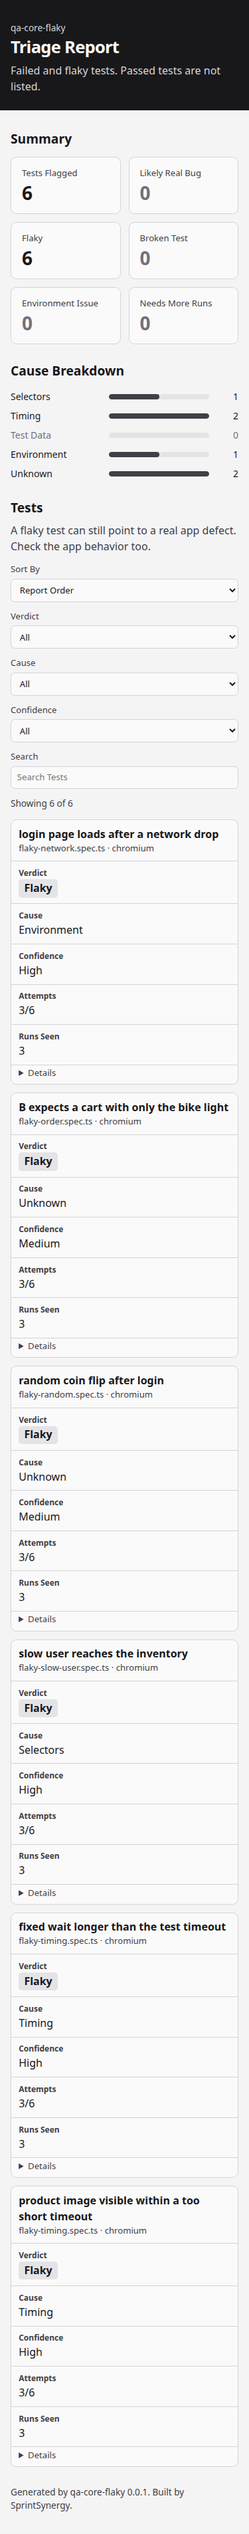
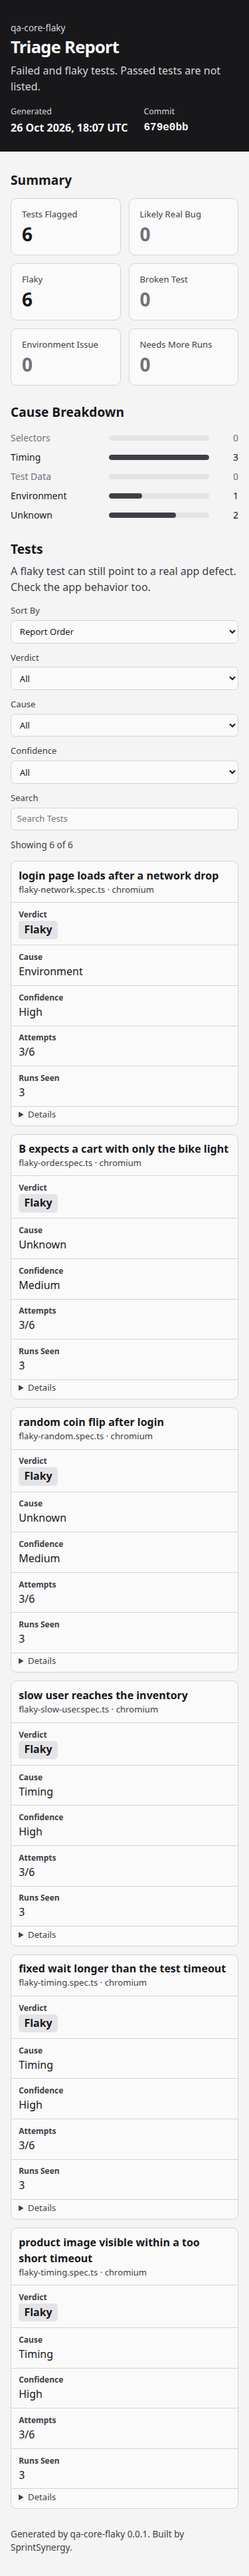
Regenerate the SauceDemo example from the kit reports.
The next step commands use the report and config paths printed from inside the kit, and the header uses a real short commit with a fixed time. A test rejects machine paths in the committed example.

diff --git a/examples/triage.html b/examples/triage.html
@@ -11,10 +11,11 @@
 <style>:root{color-scheme:light;--bg:#f4f4f5;--bg-elevated:#fafafa;--ink:#18181b;--muted:#3f3f46;--line:#d4d4d8;--band:#18181b;--band-ink:#fafafa;--band-muted:#d4d4d8;--bar:#3f3f46;--bar-track:#e4e4e7;--zero:#71717a}@media (prefers-color-scheme:dark){:root{color-scheme:dark;--bg:#09090b;--bg-elevated:#18181b;--ink:#fafafa;--muted:#d4d4d8;--line:#3f3f46;--band:#27272a;--band-ink:#fafafa;--band-muted:#d4d4d8;--bar:#d4d4d8;--bar-track:#27272a;--zero:#a1a1aa}}*{box-sizing:border-box}[hidden]{display:none !important}html,body{margin:0;padding:0}body{background:var(--bg);color:var(--ink);font-family:ui-sans-serif,system-ui,"Segoe UI",Helvetica,Arial,sans-serif;font-size:16px;line-height:1.5}:focus-visible{outline:2px solid var(--ink);outline-offset:2px}.skip{position:absolute;left:0.75rem;top:-3rem;z-index:3;background:var(--bg-elevated);color:var(--ink);padding:0.4rem 0.7rem;border-radius:0.35rem}.skip:focus{top:0.75rem}.top{background:var(--band);color:var(--band-ink)}.top-inner,main,.footer{max-width:72rem;margin:0 auto;padding-left:1.25rem;padding-right:1.25rem}.top-inner{padding-top:2rem;padding-bottom:1.5rem}.mark{margin:0;color:var(--band-muted);font-size:0.85rem}h1{margin:0.2rem 0 0;font-size:2rem;font-weight:650;letter-spacing:-0.03em;line-height:1.15}.lede{margin:0.55rem 0 0;max-width:40rem;color:var(--band-muted)}.meta{display:flex;flex-wrap:wrap;gap:0.75rem 1.5rem;margin:1.1rem 0 0}.meta div{margin:0}.meta dt{margin:0;font-size:0.78rem;color:var(--band-muted)}.meta dd{margin:0.1rem 0 0;font-weight:600;overflow-wrap:anywhere}.sha{font-family:ui-monospace,"SFMono-Regular",Consolas,monospace;font-weight:500}main{padding-top:0.25rem;padding-bottom:1rem}section{margin-top:1.6rem}h2{margin:0 0 0.75rem;font-size:1.2rem;font-weight:650}h3{margin:0.7rem 0 0.25rem;font-size:0.92rem;font-weight:650}.cards{display:grid;grid-template-columns:repeat(auto-fit,minmax(9.5rem,1fr));gap:0.75rem}.card,.table-wrap,.empty{background:var(--bg-elevated);border:1px solid var(--line);border-radius:0.55rem}.card{padding:0.85rem 1rem 0.95rem}.card-label{margin:0;color:var(--muted);font-size:0.82rem}.card-value{margin:0.3rem 0 0;font-size:1.75rem;font-weight:650;font-variant-numeric:tabular-nums;letter-spacing:-0.03em;line-height:1.1}.z,.z .card-value,.bars .z{color:var(--zero)}.bars{list-style:none;margin:0;padding:0;display:flex;flex-direction:column;gap:5px;max-width:36rem}.bars li{display:grid;grid-template-columns:8.5rem minmax(0,1fr) 2rem;align-items:center;column-gap:0.75rem;height:24px}.bl{font-size:0.875rem;line-height:1;white-space:nowrap}.bt{display:block;height:8px;background:var(--bar-track);border-radius:999px;overflow:hidden}.bb{display:block;height:8px;background:var(--bar);border-radius:999px}.bars .z .bb{background:transparent}.bc{font-size:0.875rem;font-variant-numeric:tabular-nums;text-align:right}.sr-only{position:absolute;width:1px;height:1px;padding:0;margin:-1px;overflow:hidden;clip:rect(0,0,0,0);white-space:nowrap;border:0}.toolbar{display:none;flex-wrap:wrap;gap:0.75rem;align-items:end;margin:0 0 0.85rem}.js .toolbar{display:flex}.toolbar .sort{display:none}.field{display:flex;flex-direction:column;gap:0.25rem;color:var(--muted);font-size:0.82rem}.toolbar select,.toolbar input[type="search"]{font:inherit;color:var(--ink);background:var(--bg-elevated);border:1px solid var(--line);border-radius:0.4rem;padding:0.4rem 0.55rem;min-width:11rem}.filter-status{margin:0;align-self:center;color:var(--muted);font-size:0.85rem}.note{margin:-0.35rem 0 0.85rem;color:var(--muted)}.table-wrap{overflow:auto;max-width:100%;width:100%}table{width:100%;border-collapse:collapse}caption{caption-side:bottom}th,td{text-align:left;vertical-align:top;padding:0.55rem 0.7rem;border-bottom:1px solid var(--line)}thead th{position:sticky;top:0;background:var(--bg-elevated);z-index:1}th button{font:inherit;font-weight:650;color:inherit;background:transparent;border:0;padding:0;cursor:pointer;text-align:left}th[aria-sort="ascending"] button::after,th[aria-sort="descending"] button::after{content:"";display:inline-block;margin-left:0.4rem;vertical-align:middle;border-left:4px solid transparent;border-right:4px solid transparent}th[aria-sort="ascending"] button::after{border-bottom:6px solid currentColor}th[aria-sort="descending"] button::after{border-top:6px solid currentColor}tbody th[scope="row"]{font-weight:400;overflow-wrap:anywhere}tbody th b{display:block;font-weight:600}tbody th small{display:block;color:var(--muted);font-size:0.82rem}td[data-label="Attempts"],td[data-label="Runs Seen"]{font-variant-numeric:tabular-nums;white-space:nowrap}.b1,.b2,.b3,.b4,.b5{display:inline-block;padding:0.12rem 0.45rem;border-radius:0.3rem;border:1px solid transparent;font-style:normal;font-weight:600;line-height:1.35;white-space:nowrap}.b1{background:#18181b;color:#fafafa}.b2{background:#3f3f46;color:#fafafa}.b3{background:#e4e4e7;color:#18181b}.b4{background:transparent;color:#18181b;border-color:#71717a}.b5{background:transparent;color:#52525b;border-style:dashed;border-color:#a1a1aa}@media (prefers-color-scheme:dark){.b1{background:#fafafa;color:#18181b}.b2{background:#d4d4d8;color:#18181b}.b3{background:#3f3f46;color:#fafafa}.b4{color:#fafafa;border-color:#71717a}.b5{color:#a1a1aa;border-color:#a1a1aa}}details{padding:0}summary{cursor:pointer;color:var(--muted);font-size:0.82rem;font-weight:500}tbody tr + tr td{padding-top:0.15rem;padding-bottom:0.4rem}p,li{overflow-wrap:anywhere}pre{margin:0;padding:0.7rem 0.8rem;white-space:pre-wrap;overflow-wrap:anywhere;background:var(--bg);border:1px solid var(--line);border-radius:0.4rem;font-family:ui-monospace,"SFMono-Regular",Consolas,monospace;font-size:0.88rem}code{font-family:ui-monospace,"SFMono-Regular",Consolas,monospace;font-size:0.88rem;overflow-wrap:anywhere}.copy{display:block;width:fit-content;margin:0.45rem 0 0}button{font:inherit;color:var(--ink);background:var(--bg-elevated);border:1px solid var(--line);border-radius:0.4rem;padding:0.3rem 0.6rem;cursor:pointer}.copy-buffer{position:fixed;left:-9999px;top:0;width:1px;height:1px;opacity:0}.empty{padding:1.1rem 1rem}.empty-title{margin:0;font-size:1.05rem;font-weight:650}.empty p{margin:0.4rem 0 0;color:var(--muted)}.footer{padding-bottom:2rem;color:var(--muted);font-size:0.85rem}.footer p{margin:0}.w0{width:0%}.w1{width:1%}.w2{width:2%}.w3{width:3%}.w4{width:4%}.w5{width:5%}.w6{width:6%}.w7{width:7%}.w8{width:8%}.w9{width:9%}.w10{width:10%}.w11{width:11%}.w12{width:12%}.w13{width:13%}.w14{width:14%}.w15{width:15%}.w16{width:16%}.w17{width:17%}.w18{width:18%}.w19{width:19%}.w20{width:20%}.w21{width:21%}.w22{width:22%}.w23{width:23%}.w24{width:24%}.w25{width:25%}.w26{width:26%}.w27{width:27%}.w28{width:28%}.w29{width:29%}.w30{width:30%}.w31{width:31%}.w32{width:32%}.w33{width:33%}.w34{width:34%}.w35{width:35%}.w36{width:36%}.w37{width:37%}.w38{width:38%}.w39{width:39%}.w40{width:40%}.w41{width:41%}.w42{width:42%}.w43{width:43%}.w44{width:44%}.w45{width:45%}.w46{width:46%}.w47{width:47%}.w48{width:48%}.w49{width:49%}.w50{width:50%}.w51{width:51%}.w52{width:52%}.w53{width:53%}.w54{width:54%}.w55{width:55%}.w56{width:56%}.w57{width:57%}.w58{width:58%}.w59{width:59%}.w60{width:60%}.w61{width:61%}.w62{width:62%}.w63{width:63%}.w64{width:64%}.w65{width:65%}.w66{width:66%}.w67{width:67%}.w68{width:68%}.w69{width:69%}.w70{width:70%}.w71{width:71%}.w72{width:72%}.w73{width:73%}.w74{width:74%}.w75{width:75%}.w76{width:76%}.w77{width:77%}.w78{width:78%}.w79{width:79%}.w80{width:80%}.w81{width:81%}.w82{width:82%}.w83{width:83%}.w84{width:84%}.w85{width:85%}.w86{width:86%}.w87{width:87%}.w88{width:88%}.w89{width:89%}.w90{width:90%}.w91{width:91%}.w92{width:92%}.w93{width:93%}.w94{width:94%}.w95{width:95%}.w96{width:96%}.w97{width:97%}.w98{width:98%}.w99{width:99%}.w100{width:100%}@media (max-width:640px){h1{font-size:1.6rem}.top-inner,main,.footer{padding-left:1rem;padding-right:1rem}.cards{grid-template-columns:1fr 1fr}.js .toolbar .sort{display:flex}.toolbar{align-items:stretch}.field,.toolbar select,.toolbar input[type="search"]{width:100%;min-width:0}.table-wrap{overflow:visible;border:0;background:transparent}table,thead,tbody,tr,th,td{display:block;width:auto}thead{display:none}tbody{margin:0 0 0.75rem;border:1px solid var(--line);border-radius:0.55rem;background:var(--bg-elevated);overflow:hidden}th,td{border-bottom:1px solid var(--line)}td[data-label]::before{content:attr(data-label);display:block;color:var(--muted);font-size:0.75rem;font-weight:600}tbody tr + tr td{border-bottom:0}td[data-label="Attempts"],td[data-label="Runs Seen"]{white-space:normal}}@media print{:root{color-scheme:light;--bg:#fafafa;--bg-elevated:#fafafa;--ink:#18181b;--muted:#3f3f46;--line:#d4d4d8;--band:#fafafa;--band-ink:#18181b;--band-muted:#3f3f46;--bar:#3f3f46;--bar-track:#e4e4e7;--zero:#71717a}.skip,.toolbar,.copy{display:none !important}thead{display:table-header-group;position:static}table{display:table;width:100%}tbody{display:table-row-group;margin:0;border:0;background:transparent;overflow:visible}tr{display:table-row}th,td{display:table-cell}td[data-label]::before{content:none;display:none}details,details > *{display:block !important;content-visibility:visible !important}summary{display:list-item !important}.b1{background:#18181b;color:#fafafa}.b2{background:#3f3f46;color:#fafafa}.b3{background:#e4e4e7;color:#18181b}.b4{color:#18181b;border-color:#71717a}.b5{color:#52525b;border-color:#a1a1aa}tbody{break-inside:avoid}}</style>
 </head>
 <body>
-<a class="skip" href="#tests">Skip To Tests</a><header class="top"><div class="top-inner"><p class="mark">qa-core-flaky<h1>Triage Report</h1><p class="lede">Failed and flaky tests. Passed tests are not listed.</p></div></header><main><section aria-labelledby="summary-heading"><h2 id="summary-heading">Summary</h2><div class="cards"><article class="card"><p class="card-label">Tests Flagged<p class="card-value" data-summary="tests">6</p></article><article class="card z"><p class="card-label">Likely Real Bug<p class="card-value" data-summary="likely-real-bug">0</p></article><article class="card"><p class="card-label">Flaky<p class="card-value" data-summary="flaky">6</p></article><article class="card z"><p class="card-label">Broken Test<p class="card-value" data-summary="broken-test">0</p></article><article class="card z"><p class="card-label">Environment Issue<p class="card-value" data-summary="environment-issue">0</p></article><article class="card z"><p class="card-label">Needs More Runs<p class="card-value" data-summary="needs-more-runs">0</p></article></div></section><section aria-labelledby="cause-heading"><h2 id="cause-heading">Cause Breakdown</h2><ul class="bars"><li class=""><span class="bl">Selectors</span><span class="bt" aria-hidden="true"><span class="bb w50"></span></span><span class="bc" data-cause-count="selectors">1</span></li><li class=""><span class="bl">Timing</span><span class="bt" aria-hidden="true"><span class="bb w100"></span></span><span class="bc" data-cause-count="timing">2</span></li><li class="z"><span class="bl">Test Data</span><span class="bt" aria-hidden="true"><span class="bb w0"></span></span><span class="bc" data-cause-count="test-data">0</span></li><li class=""><span class="bl">Environment</span><span class="bt" aria-hidden="true"><span class="bb w50"></span></span><span class="bc" data-cause-count="environment">1</span></li><li class=""><span class="bl">Unknown</span><span class="bt" aria-hidden="true"><span class="bb w100"></span></span><span class="bc" data-cause-count="unknown">2</span></li></ul></section><section id="tests" aria-labelledby="tests-heading"><h2 id="tests-heading">Tests</h2><p class="note">A flaky test can still point to a real app defect. Check the app behavior too.</p><div class="toolbar"><div class="field sort"><label for="sort-by">Sort By</label><select id="sort-by"><option value="">Report Order</option><option value="test">Test</option><option value="verdict">Verdict</option><option value="cause">Cause</option><option value="confidence">Confidence</option><option value="attempts">Attempts</option><option value="runs">Runs Seen</option></select></div><div class="field"><label for="filter-verdict">Verdict</label><select id="filter-verdict"><option value="">All</option><option value="flaky">Flaky</option></select></div><div class="field"><label for="filter-cause">Cause</label><select id="filter-cause"><option value="">All</option><option value="selectors">Selectors</option><option value="timing">Timing</option><option value="environment">Environment</option><option value="unknown">Unknown</option></select></div><div class="field"><label for="filter-confidence">Confidence</label><select id="filter-confidence"><option value="">All</option><option value="high">High</option><option value="medium">Medium</option></select></div><div class="field"><label for="filter-search">Search</label><input id="filter-search" type="search" placeholder="Search Tests" autocomplete="off"></div><p id="filter-status" class="filter-status" aria-live="polite"></p></div><div class="table-wrap"><table data-report-table><caption class="sr-only">Triage Tests</caption><thead><tr><th scope="col" data-sort-key="test" aria-sort="none"><button type="button">Test</button><th scope="col" data-sort-key="verdict" aria-sort="none"><button type="button">Verdict</button><th scope="col" data-sort-key="cause" aria-sort="none"><button type="button">Cause</button><th scope="col" data-sort-key="confidence" aria-sort="none"><button type="button">Confidence</button><th scope="col" data-sort-key="attempts" aria-sort="none"><button type="button">Attempts</button><th scope="col" data-sort-key="runs" aria-sort="none"><button type="button">Runs Seen</button></thead><tbody data-test="flaky-network.spec.ts::chromium::login page loads after a network drop" data-v="flaky" data-c="environment" data-k="high" data-f="3" data-n="6" data-r="3" data-rule="FLAKY"><tr><th scope="row"><b>login page loads after a network drop</b><small>flaky-network.spec.ts · chromium</small><td data-label="Verdict"><i class="b3">Flaky</i><td data-label="Cause">Environment<td data-label="Confidence">High<td data-label="Attempts">3/6<td data-label="Runs Seen">3<tr><td colspan="6"><details><summary>Details</summary><h3>Evidence</h3><pre>Error: page.goto: net::ERR_INTERNET_DISCONNECTED at https://www.saucedemo.com/</pre><h3>Signals</h3><p data-signal="same-code-flip">Same Code Flip: At least one pass and one fail share commit tonight.<h3>Causes</h3><p>Environment (High). ENV-NET<h3>Suggested Fix</h3><p>Check the network and the base URL. Keep retries only for infrastructure errors.<h3>Next Step</h3><p>Review the suggested fix. To see the test again, run: <pre>qa-core-flaky rerun --from 'reports/run-1.json' --only 'flaky-network.spec.ts::chromium::login page loads after a network drop' --config '/workspace/p3-test-kit/saucedemo-flaky-kit/playwright.config.ts'</pre><button type="button" class="copy">Copy Command</button><h3>Attempts</h3><p>Total 6, failed 3, passed 3. Same code for a pass and a fail: yes.<p>Seen In 3 Runs<p>Review Status: Needs Review.</p></details><tbody data-test="flaky-order.spec.ts::chromium::B expects a cart with only the bike light" data-v="flaky" data-c="unknown" data-k="medium" data-f="3" data-n="6" data-r="3" data-rule="FLAKY"><tr><th scope="row"><b>B expects a cart with only the bike light</b><small>flaky-order.spec.ts · chromium</small><td data-label="Verdict"><i class="b3">Flaky</i><td data-label="Cause">Unknown<td data-label="Confidence">Medium<td data-label="Attempts">3/6<td data-label="Runs Seen">3<tr><td colspan="6"><details><summary>Details</summary><h3>Evidence</h3><pre>Expected: &quot;1&quot;
-Received: &quot;2&quot;</pre><h3>Signals</h3><p data-signal="same-code-flip">Same Code Flip: At least one pass and one fail share commit tonight.<h3>Causes</h3><p>Unknown (Low). UNK-NONE<h3>Suggested Fix</h3><p>The rules did not name a cause. Compare the quoted expected and received values with what the user sees. Do not loosen the assertion to make it pass.<h3>Next Step</h3><p>Review the suggested fix. To see the test again, run: <pre>qa-core-flaky rerun --from 'reports/run-1.json' --only 'flaky-order.spec.ts::chromium::B expects a cart with only the bike light' --config '/workspace/p3-test-kit/saucedemo-flaky-kit/playwright.config.ts'</pre><button type="button" class="copy">Copy Command</button><h3>Attempts</h3><p>Total 6, failed 3, passed 3. Same code for a pass and a fail: yes.<p>Seen In 3 Runs<p>Review Status: Needs Review.</p></details><tbody data-test="flaky-random.spec.ts::chromium::random coin flip after login" data-v="flaky" data-c="unknown" data-k="medium" data-f="3" data-n="6" data-r="3" data-rule="FLAKY"><tr><th scope="row"><b>random coin flip after login</b><small>flaky-random.spec.ts · chromium</small><td data-label="Verdict"><i class="b3">Flaky</i><td data-label="Cause">Unknown<td data-label="Confidence">Medium<td data-label="Attempts">3/6<td data-label="Runs Seen">3<tr><td colspan="6"><details><summary>Details</summary><h3>Evidence</h3><pre>Expected: true
-Received: false</pre><h3>Signals</h3><p data-signal="same-code-flip">Same Code Flip: At least one pass and one fail share commit tonight.<h3>Causes</h3><p>Unknown (Low). UNK-NONE<h3>Suggested Fix</h3><p>The rules did not name a cause. Compare the quoted expected and received values with what the user sees. Do not loosen the assertion to make it pass.<h3>Next Step</h3><p>Review the suggested fix. To see the test again, run: <pre>qa-core-flaky rerun --from 'reports/run-1.json' --only 'flaky-random.spec.ts::chromium::random coin flip after login' --config '/workspace/p3-test-kit/saucedemo-flaky-kit/playwright.config.ts'</pre><button type="button" class="copy">Copy Command</button><h3>Attempts</h3><p>Total 6, failed 3, passed 3. Same code for a pass and a fail: yes.<p>Seen In 3 Runs<p>Review Status: Needs Review.</p></details><tbody data-test="flaky-slow-user.spec.ts::chromium::slow user reaches the inventory" data-v="flaky" data-c="selectors" data-k="high" data-f="3" data-n="6" data-r="3" data-rule="FLAKY"><tr><th scope="row"><b>slow user reaches the inventory</b><small>flaky-slow-user.spec.ts · chromium</small><td data-label="Verdict"><i class="b3">Flaky</i><td data-label="Cause">Selectors<td data-label="Confidence">High<td data-label="Attempts">3/6<td data-label="Runs Seen">3<tr><td colspan="6"><details><summary>Details</summary><h3>Evidence</h3><pre>Error: element(s) not found</pre><h3>Signals</h3><p data-signal="same-code-flip">Same Code Flip: At least one pass and one fail share commit tonight.<h3>Causes</h3><p>Selectors (High). SEL-NOTFOUND, SEL-ZERO<h3>Suggested Fix</h3><p>Check whether the app changed or the locator is wrong. This is a candidate for qa-core-heal (PR 9).<h3>Next Step</h3><p>Review the suggested fix. To see the test again, run: <pre>qa-core-flaky rerun --from 'reports/run-1.json' --only 'flaky-slow-user.spec.ts::chromium::slow user reaches the inventory' --config '/workspace/p3-test-kit/saucedemo-flaky-kit/playwright.config.ts'</pre><button type="button" class="copy">Copy Command</button><h3>Attempts</h3><p>Total 6, failed 3, passed 3. Same code for a pass and a fail: yes.<p>Seen In 3 Runs<p>Review Status: Needs Review.</p></details><tbody data-test="flaky-timing.spec.ts::chromium::fixed wait longer than the test timeout" data-v="flaky" data-c="timing" data-k="high" data-f="3" data-n="6" data-r="3" data-rule="FLAKY"><tr><th scope="row"><b>fixed wait longer than the test timeout</b><small>flaky-timing.spec.ts · chromium</small><td data-label="Verdict"><i class="b3">Flaky</i><td data-label="Cause">Timing<td data-label="Confidence">High<td data-label="Attempts">3/6<td data-label="Runs Seen">3<tr><td colspan="6"><details><summary>Details</summary><h3>Evidence</h3><pre>Test timeout of 8000ms exceeded.
-Error: page.waitForTimeout: Test timeout of 8000ms exceeded.</pre><h3>Signals</h3><p data-signal="same-code-flip">Same Code Flip: At least one pass and one fail share commit tonight.<h3>Causes</h3><p>Timing (High). TIM-TEST-TIMEOUT<h3>Suggested Fix</h3><p>The test hit its time limit while waiting. Wait for what the user sees with a web-first assertion, and check whether the app itself is slow.<h3>Next Step</h3><p>Review the suggested fix. To see the test again, run: <pre>qa-core-flaky rerun --from 'reports/run-1.json' --only 'flaky-timing.spec.ts::chromium::fixed wait longer than the test timeout' --config '/workspace/p3-test-kit/saucedemo-flaky-kit/playwright.config.ts'</pre><button type="button" class="copy">Copy Command</button><h3>Attempts</h3><p>Total 6, failed 3, passed 3. Same code for a pass and a fail: yes.<p>Seen In 3 Runs<p>Review Status: Needs Review.</p></details><tbody data-test="flaky-timing.spec.ts::chromium::product image visible within a too short timeout" data-v="flaky" data-c="timing" data-k="high" data-f="3" data-n="6" data-r="3" data-rule="FLAKY"><tr><th scope="row"><b>product image visible within a too short timeout</b><small>flaky-timing.spec.ts · chromium</small><td data-label="Verdict"><i class="b3">Flaky</i><td data-label="Cause">Timing<td data-label="Confidence">High<td data-label="Attempts">3/6<td data-label="Runs Seen">3<tr><td colspan="6"><details><summary>Details</summary><h3>Evidence</h3><pre>       - unexpected value &quot;hidden&quot;</pre><h3>Signals</h3><p data-signal="same-code-flip">Same Code Flip: At least one pass and one fail share commit tonight.<h3>Causes</h3><p>Timing (High). TIM-EXPECT-TIMEOUT<h3>Suggested Fix</h3><p>Replace fixed waits with web-first assertions on what the user sees, and check whether the app itself is slow.<h3>Next Step</h3><p>Review the suggested fix. To see the test again, run: <pre>qa-core-flaky rerun --from 'reports/run-1.json' --only 'flaky-timing.spec.ts::chromium::product image visible within a too short timeout' --config '/workspace/p3-test-kit/saucedemo-flaky-kit/playwright.config.ts'</pre><button type="button" class="copy">Copy Command</button><h3>Attempts</h3><p>Total 6, failed 3, passed 3. Same code for a pass and a fail: yes.<p>Seen In 3 Runs<p>Review Status: Needs Review.</p></details></table></div><p id="filter-empty" class="filter-empty" hidden>No Matching Tests</p></section></main><footer class="footer"><p>Generated by qa-core-flaky 0.0.1. Built by SprintSynergy.</p></footer><script>(function () {
+<a class="skip" href="#tests">Skip To Tests</a><header class="top"><div class="top-inner"><p class="mark">qa-core-flaky<h1>Triage Report</h1><p class="lede">Failed and flaky tests. Passed tests are not listed.</p><dl class="meta"><div><dt>Generated</dt><dd>26 Oct 2026, 18:07 UTC</dd></div><div><dt>Commit</dt><dd class="sha">679e0bb</dd></div></dl></div></header><main><section aria-labelledby="summary-heading"><h2 id="summary-heading">Summary</h2><div class="cards"><article class="card"><p class="card-label">Tests Flagged<p class="card-value" data-summary="tests">6</p></article><article class="card z"><p class="card-label">Likely Real Bug<p class="card-value" data-summary="likely-real-bug">0</p></article><article class="card"><p class="card-label">Flaky<p class="card-value" data-summary="flaky">6</p></article><article class="card z"><p class="card-label">Broken Test<p class="card-value" data-summary="broken-test">0</p></article><article class="card z"><p class="card-label">Environment Issue<p class="card-value" data-summary="environment-issue">0</p></article><article class="card z"><p class="card-label">Needs More Runs<p class="card-value" data-summary="needs-more-runs">0</p></article></div></section><section aria-labelledby="cause-heading"><h2 id="cause-heading">Cause Breakdown</h2><ul class="bars"><li class="z"><span class="bl">Selectors</span><span class="bt" aria-hidden="true"><span class="bb w0"></span></span><span class="bc" data-cause-count="selectors">0</span></li><li class=""><span class="bl">Timing</span><span class="bt" aria-hidden="true"><span class="bb w100"></span></span><span class="bc" data-cause-count="timing">3</span></li><li class="z"><span class="bl">Test Data</span><span class="bt" aria-hidden="true"><span class="bb w0"></span></span><span class="bc" data-cause-count="test-data">0</span></li><li class=""><span class="bl">Environment</span><span class="bt" aria-hidden="true"><span class="bb w33"></span></span><span class="bc" data-cause-count="environment">1</span></li><li class=""><span class="bl">Unknown</span><span class="bt" aria-hidden="true"><span class="bb w67"></span></span><span class="bc" data-cause-count="unknown">2</span></li></ul></section><section id="tests" aria-labelledby="tests-heading"><h2 id="tests-heading">Tests</h2><p class="note">A flaky test can still point to a real app defect. Check the app behavior too.</p><div class="toolbar"><div class="field sort"><label for="sort-by">Sort By</label><select id="sort-by"><option value="">Report Order</option><option value="test">Test</option><option value="verdict">Verdict</option><option value="cause">Cause</option><option value="confidence">Confidence</option><option value="attempts">Attempts</option><option value="runs">Runs Seen</option></select></div><div class="field"><label for="filter-verdict">Verdict</label><select id="filter-verdict"><option value="">All</option><option value="flaky">Flaky</option></select></div><div class="field"><label for="filter-cause">Cause</label><select id="filter-cause"><option value="">All</option><option value="timing">Timing</option><option value="environment">Environment</option><option value="unknown">Unknown</option></select></div><div class="field"><label for="filter-confidence">Confidence</label><select id="filter-confidence"><option value="">All</option><option value="high">High</option><option value="medium">Medium</option></select></div><div class="field"><label for="filter-search">Search</label><input id="filter-search" type="search" placeholder="Search Tests" autocomplete="off"></div><p id="filter-status" class="filter-status" aria-live="polite"></p></div><div class="table-wrap"><table data-report-table><caption class="sr-only">Triage Tests</caption><thead><tr><th scope="col" data-sort-key="test" aria-sort="none"><button type="button">Test</button><th scope="col" data-sort-key="verdict" aria-sort="none"><button type="button">Verdict</button><th scope="col" data-sort-key="cause" aria-sort="none"><button type="button">Cause</button><th scope="col" data-sort-key="confidence" aria-sort="none"><button type="button">Confidence</button><th scope="col" data-sort-key="attempts" aria-sort="none"><button type="button">Attempts</button><th scope="col" data-sort-key="runs" aria-sort="none"><button type="button">Runs Seen</button></thead><tbody data-test="flaky-network.spec.ts::chromium::login page loads after a network drop" data-v="flaky" data-c="environment" data-k="high" data-f="3" data-n="6" data-r="3" data-rule="FLAKY"><tr><th scope="row"><b>login page loads after a network drop</b><small>flaky-network.spec.ts · chromium</small><td data-label="Verdict"><i class="b3">Flaky</i><td data-label="Cause">Environment<td data-label="Confidence">High<td data-label="Attempts">3/6<td data-label="Runs Seen">3<tr><td colspan="6"><details><summary>Details</summary><h3>Evidence</h3><pre>Error: page.goto: net::ERR_INTERNET_DISCONNECTED at https://www.saucedemo.com/</pre><h3>Signals</h3><p data-signal="same-code-flip">Same Code Flip: At least one pass and one fail share commit 679e0bb.<h3>Causes</h3><p>Environment (High). ENV-NET<h3>Suggested Fix</h3><p>Check the network and the base URL. Keep retries only for infrastructure errors.<h3>Next Step</h3><p>Review the suggested fix. To see the test again, run: <pre>qa-core-flaky rerun --from 'reports/run-1.json' --only 'flaky-network.spec.ts::chromium::login page loads after a network drop' --config 'playwright.config.ts'</pre><button type="button" class="copy">Copy Command</button><h3>Attempts</h3><p>Total 6, failed 3, passed 3. Same code for a pass and a fail: yes.<p>Seen In 3 Runs<p>Review Status: Needs Review.</p></details><tbody data-test="flaky-order.spec.ts::chromium::B expects a cart with only the bike light" data-v="flaky" data-c="unknown" data-k="medium" data-f="3" data-n="6" data-r="3" data-rule="FLAKY"><tr><th scope="row"><b>B expects a cart with only the bike light</b><small>flaky-order.spec.ts · chromium</small><td data-label="Verdict"><i class="b3">Flaky</i><td data-label="Cause">Unknown<td data-label="Confidence">Medium<td data-label="Attempts">3/6<td data-label="Runs Seen">3<tr><td colspan="6"><details><summary>Details</summary><h3>Evidence</h3><pre>Expected: &quot;1&quot;
+Received: &quot;2&quot;</pre><h3>Signals</h3><p data-signal="same-code-flip">Same Code Flip: At least one pass and one fail share commit 679e0bb.<h3>Causes</h3><p>Unknown (Low). UNK-NONE<h3>Suggested Fix</h3><p>The rules did not name a cause. Compare the quoted expected and received values with what the user sees. Do not loosen the assertion to make it pass.<h3>Next Step</h3><p>Review the suggested fix. To see the test again, run: <pre>qa-core-flaky rerun --from 'reports/run-1.json' --only 'flaky-order.spec.ts::chromium::B expects a cart with only the bike light' --config 'playwright.config.ts'</pre><button type="button" class="copy">Copy Command</button><h3>Attempts</h3><p>Total 6, failed 3, passed 3. Same code for a pass and a fail: yes.<p>Seen In 3 Runs<p>Review Status: Needs Review.</p></details><tbody data-test="flaky-random.spec.ts::chromium::random coin flip after login" data-v="flaky" data-c="unknown" data-k="medium" data-f="3" data-n="6" data-r="3" data-rule="FLAKY"><tr><th scope="row"><b>random coin flip after login</b><small>flaky-random.spec.ts · chromium</small><td data-label="Verdict"><i class="b3">Flaky</i><td data-label="Cause">Unknown<td data-label="Confidence">Medium<td data-label="Attempts">3/6<td data-label="Runs Seen">3<tr><td colspan="6"><details><summary>Details</summary><h3>Evidence</h3><pre>Expected: true
+Received: false</pre><h3>Signals</h3><p data-signal="same-code-flip">Same Code Flip: At least one pass and one fail share commit 679e0bb.<h3>Causes</h3><p>Unknown (Low). UNK-NONE<h3>Suggested Fix</h3><p>The rules did not name a cause. Compare the quoted expected and received values with what the user sees. Do not loosen the assertion to make it pass.<h3>Next Step</h3><p>Review the suggested fix. To see the test again, run: <pre>qa-core-flaky rerun --from 'reports/run-1.json' --only 'flaky-random.spec.ts::chromium::random coin flip after login' --config 'playwright.config.ts'</pre><button type="button" class="copy">Copy Command</button><h3>Attempts</h3><p>Total 6, failed 3, passed 3. Same code for a pass and a fail: yes.<p>Seen In 3 Runs<p>Review Status: Needs Review.</p></details><tbody data-test="flaky-slow-user.spec.ts::chromium::slow user reaches the inventory" data-v="flaky" data-c="timing" data-k="high" data-f="3" data-n="6" data-r="3" data-rule="FLAKY"><tr><th scope="row"><b>slow user reaches the inventory</b><small>flaky-slow-user.spec.ts · chromium</small><td data-label="Verdict"><i class="b3">Flaky</i><td data-label="Cause">Timing<td data-label="Confidence">High<td data-label="Attempts">3/6<td data-label="Runs Seen">3<tr><td colspan="6"><details><summary>Details</summary><h3>Evidence</h3><pre>Timeout: 2000ms
+Error: element(s) not found</pre><h3>Signals</h3><p data-signal="same-code-flip">Same Code Flip: At least one pass and one fail share commit 679e0bb.<h3>Causes</h3><p>Timing (High). TIM-SLOW-LOAD<p>Selectors (Low). SEL-NOTFOUND, SEL-ZERO<h3>Suggested Fix</h3><p>The page was still loading or navigation was slow, so the element was not there yet. Wait for the page to finish loading, then assert what the user sees, and check whether the app itself is slow.<h3>Next Step</h3><p>Review the suggested fix. To see the test again, run: <pre>qa-core-flaky rerun --from 'reports/run-1.json' --only 'flaky-slow-user.spec.ts::chromium::slow user reaches the inventory' --config 'playwright.config.ts'</pre><button type="button" class="copy">Copy Command</button><h3>Attempts</h3><p>Total 6, failed 3, passed 3. Same code for a pass and a fail: yes.<p>Seen In 3 Runs<p>Review Status: Needs Review.</p></details><tbody data-test="flaky-timing.spec.ts::chromium::fixed wait longer than the test timeout" data-v="flaky" data-c="timing" data-k="high" data-f="3" data-n="6" data-r="3" data-rule="FLAKY"><tr><th scope="row"><b>fixed wait longer than the test timeout</b><small>flaky-timing.spec.ts · chromium</small><td data-label="Verdict"><i class="b3">Flaky</i><td data-label="Cause">Timing<td data-label="Confidence">High<td data-label="Attempts">3/6<td data-label="Runs Seen">3<tr><td colspan="6"><details><summary>Details</summary><h3>Evidence</h3><pre>Test timeout of 8000ms exceeded.
+Error: page.waitForTimeout: Test timeout of 8000ms exceeded.</pre><h3>Signals</h3><p data-signal="same-code-flip">Same Code Flip: At least one pass and one fail share commit 679e0bb.<h3>Causes</h3><p>Timing (High). TIM-TEST-TIMEOUT<h3>Suggested Fix</h3><p>The test hit its time limit while waiting. Wait for what the user sees with a web-first assertion, and check whether the app itself is slow.<h3>Next Step</h3><p>Review the suggested fix. To see the test again, run: <pre>qa-core-flaky rerun --from 'reports/run-1.json' --only 'flaky-timing.spec.ts::chromium::fixed wait longer than the test timeout' --config 'playwright.config.ts'</pre><button type="button" class="copy">Copy Command</button><h3>Attempts</h3><p>Total 6, failed 3, passed 3. Same code for a pass and a fail: yes.<p>Seen In 3 Runs<p>Review Status: Needs Review.</p></details><tbody data-test="flaky-timing.spec.ts::chromium::product image visible within a too short timeout" data-v="flaky" data-c="timing" data-k="high" data-f="3" data-n="6" data-r="3" data-rule="FLAKY"><tr><th scope="row"><b>product image visible within a too short timeout</b><small>flaky-timing.spec.ts · chromium</small><td data-label="Verdict"><i class="b3">Flaky</i><td data-label="Cause">Timing<td data-label="Confidence">High<td data-label="Attempts">3/6<td data-label="Runs Seen">3<tr><td colspan="6"><details><summary>Details</summary><h3>Evidence</h3><pre>       - unexpected value &quot;hidden&quot;</pre><h3>Signals</h3><p data-signal="same-code-flip">Same Code Flip: At least one pass and one fail share commit 679e0bb.<h3>Causes</h3><p>Timing (High). TIM-EXPECT-TIMEOUT<h3>Suggested Fix</h3><p>Replace fixed waits with web-first assertions on what the user sees, and check whether the app itself is slow.<h3>Next Step</h3><p>Review the suggested fix. To see the test again, run: <pre>qa-core-flaky rerun --from 'reports/run-1.json' --only 'flaky-timing.spec.ts::chromium::product image visible within a too short timeout' --config 'playwright.config.ts'</pre><button type="button" class="copy">Copy Command</button><h3>Attempts</h3><p>Total 6, failed 3, passed 3. Same code for a pass and a fail: yes.<p>Seen In 3 Runs<p>Review Status: Needs Review.</p></details></table></div><p id="filter-empty" class="filter-empty" hidden>No Matching Tests</p></section></main><footer class="footer"><p>Generated by qa-core-flaky 0.0.1. Built by SprintSynergy.</p></footer><script>(function () {
   var root = document.documentElement;
   root.classList.add('js');
   var details = Array.prototype.slice.call(document.querySelectorAll('details'));

diff --git a/tests/html-report.spec.ts b/tests/html-report.spec.ts
@@ -113,7 +113,7 @@ test('the report works offline in a browser', async ({ page, browserName }) => {
   await expect(page.locator('[data-summary="tests"]')).toHaveText('6');
   await expect(page.locator('[data-summary="flaky"]')).toHaveText('6');
   await expect(page.locator('[data-summary="likely-real-bug"]')).toHaveText('0');
-  await expect(page.locator('dt', { hasText: 'Commit' })).toHaveCount(0);
+  await expect(page.locator('dd.sha')).toHaveText('679e0bb');
   await expect(page.getByText('Tests Flagged')).toBeVisible();
   await expect(page.getByText('Built by SprintSynergy.')).toBeVisible();
 
@@ -134,7 +134,7 @@ test('the report works offline in a browser', async ({ page, browserName }) => {
   expect(after[0]).toContain('product image');
 
   await page.getByLabel('Cause', { exact: true }).selectOption('timing');
-  await expect(page.locator('tbody:not([hidden])')).toHaveCount(2);
+  await expect(page.locator('tbody:not([hidden])')).toHaveCount(3);
   await page.getByLabel('Cause', { exact: true }).selectOption('');
   await page.getByLabel('Search', { exact: true }).fill('bike light');
   await expect(page.locator('tbody:not([hidden])')).toHaveCount(1);
